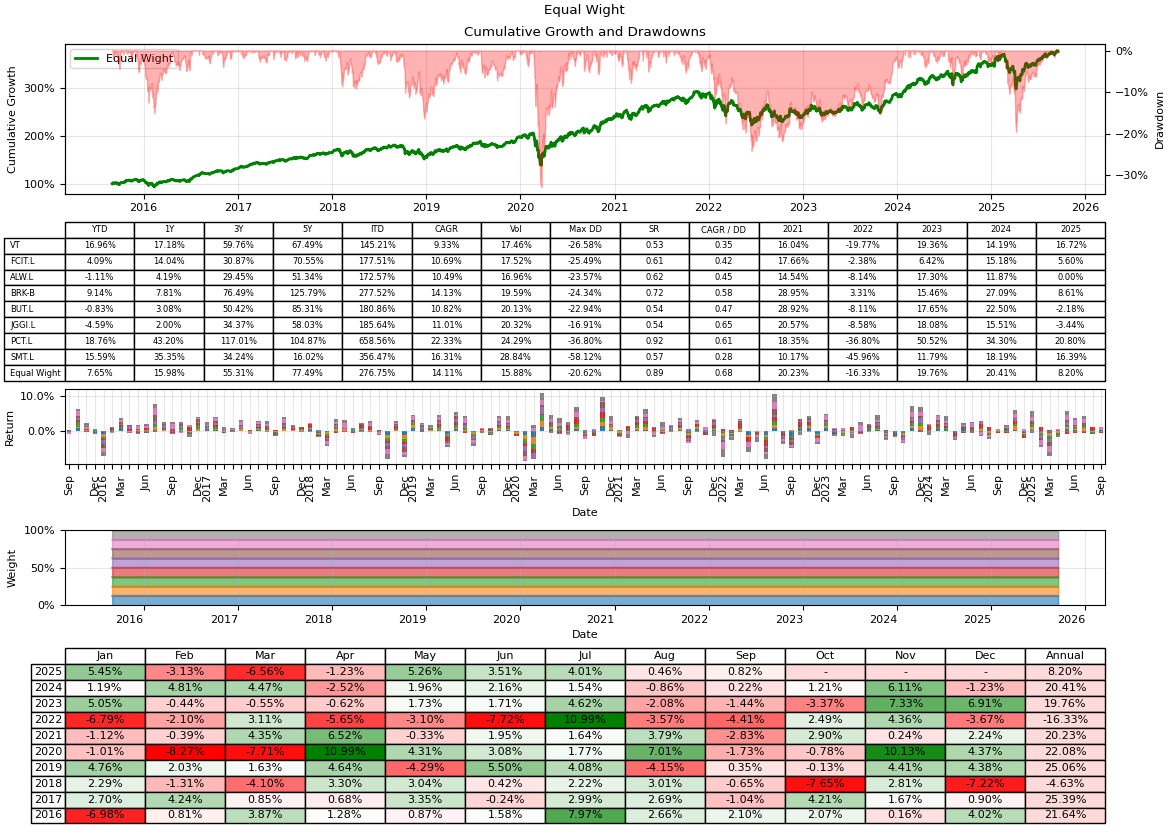
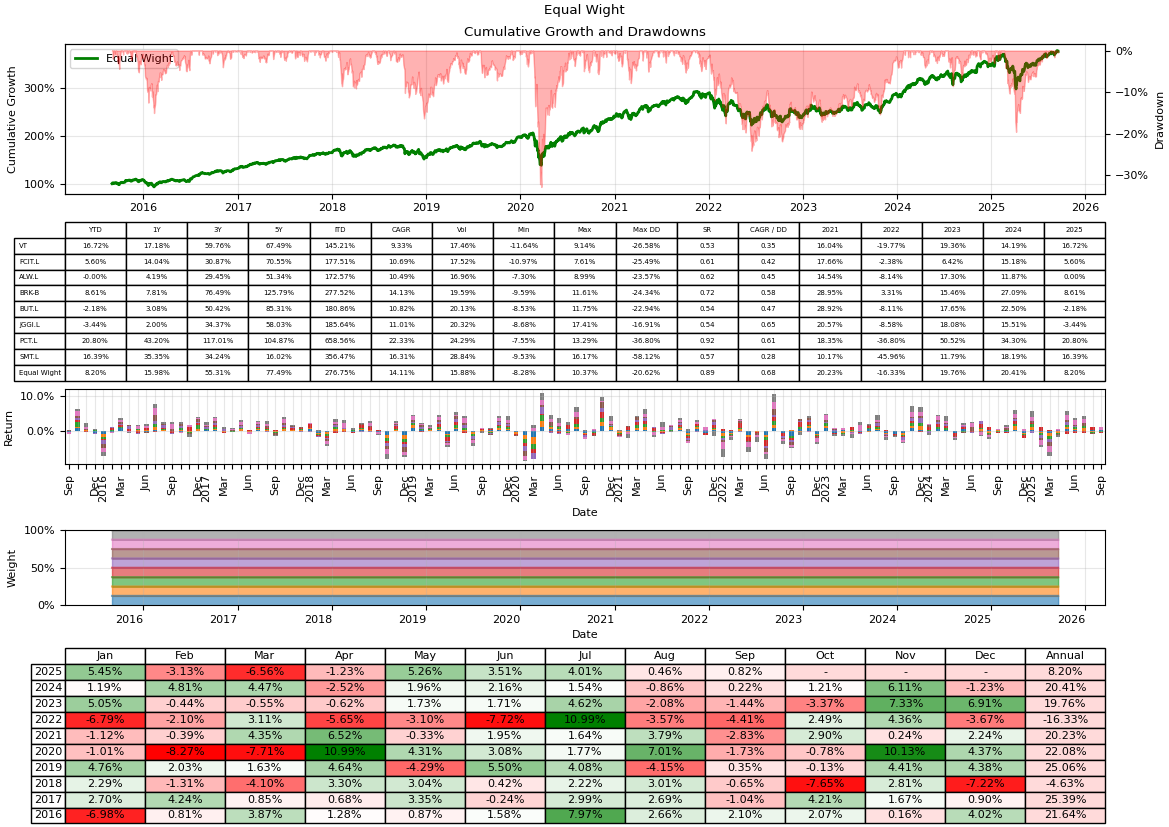
update plots

diff --git a/src/pypension/analytics.py b/src/pypension/analytics.py
@@ -15,8 +15,8 @@ def subset_returns(ser_returns: P, offset: str) -> P:
     tn = ser_returns.index[-1]
 
     t0 = {
-        "YTD": tn - pd.offsets.YearBegin(),
-        "MTD": tn - pd.offsets.MonthBegin(),
+        "YTD": tn - pd.offsets.YearEnd(),
+        "MTD": tn - pd.offsets.MonthEnd(),
         "1Y": tn - pd.DateOffset(years=1),
         "3Y": tn - pd.DateOffset(years=3),
         "5Y": tn - pd.DateOffset(years=5),
@@ -109,6 +109,8 @@ def compute_summary_statistics(
         "ITD": compute_total_return(ser_returns),
         "CAGR": compute_annualised_return(ser_returns),
         "Vol": compute_annualised_volatility(ser_returns),
+        "Min": ser_returns.min(),
+        "Max": ser_returns.max(),
         "Max DD": compute_drawdowns(resample_returns(ser_returns, "ME")).min(),
     }
 

diff --git a/src/pypension/main.py b/src/pypension/main.py
@@ -18,13 +18,13 @@ def main() -> None:
     # define fixed weight portfolio
     weights: dict[str, float] = {
         # index
-        "VT": 0.125,
-        "FCIT.L": 0.15,
-        "ALW.L": 0.15,
+        "VT": 0.225,
+        "FCIT.L": 0.125,
+        "ALW.L": 0.125,
         # active
         "BRK-B": 0.125,
-        "BUT.L": 0.15,
-        "JGGI.L": 0.15,
+        "BUT.L": 0.125,
+        "JGGI.L": 0.125,
         # tech
         "PCT.L": 0.075,
         "SMT.L": 0.075,
